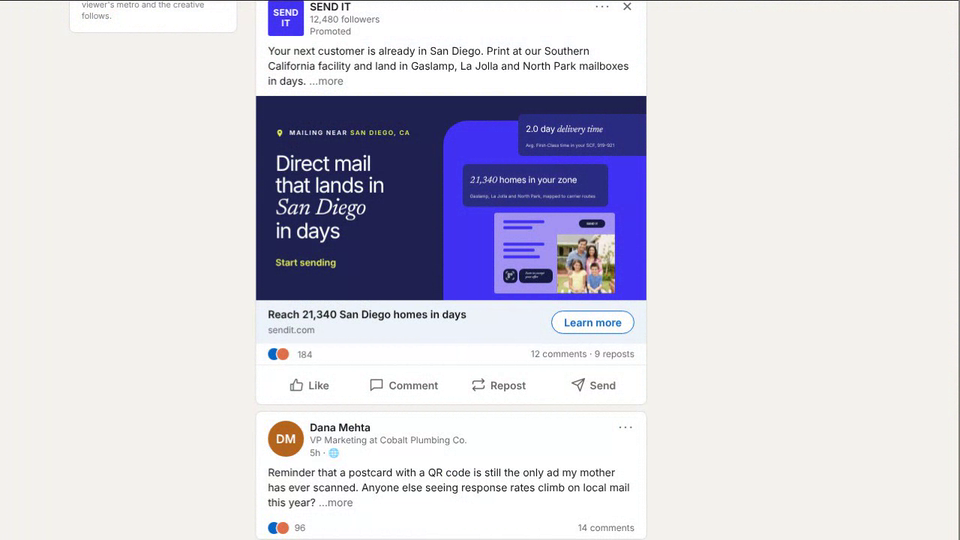
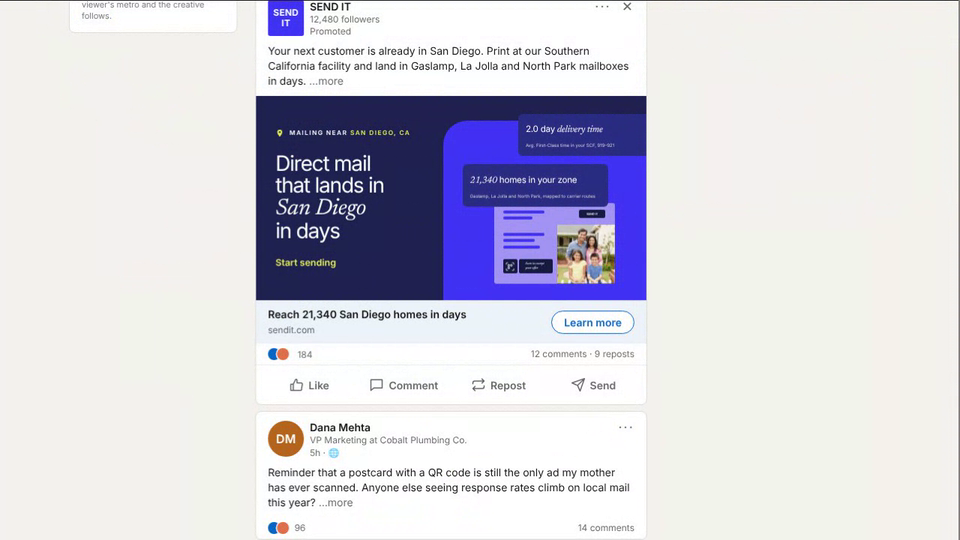
Paid Ad Pipeline: first blurb overlaps the postcard slightly, squarer QR, tag and scan label
Claude-Session: https://claude.ai/code/session_01AHeBe16MbJ3hGUT21NJCss

Changed region(s): [[0.5, 0.3556, 0.6562, 0.563]]

diff --git a/paid-ad-pipeline/index.html b/paid-ad-pipeline/index.html
@@ -79,12 +79,12 @@ nav.back span{color:#6e6e6e}nav.back b{font-weight:500;color:#fff;overflow:hidde
 .cr .bl strong{display:block;font:400 3.6cqw/1.1 var(--sans);letter-spacing:-.02em}.cr .bl strong i{font:italic 400 3.8cqw var(--serif)}
 .cr .bl p{font:400 1.85cqw/1.4 var(--sans);color:rgba(255,255,255,.75);margin-top:1.2cqw}
 .cr .box{position:absolute;left:0;right:0;top:7%;bottom:0;background:var(--purple);border-radius:32px;overflow:hidden}
-.cr .mail{position:absolute;z-index:2;left:21%;top:45%;width:50%;aspect-ratio:1.5;border-radius:3px;overflow:hidden;background:#a393f5}
+.cr .mail{position:absolute;z-index:2;left:21%;top:41%;width:50%;aspect-ratio:1.5;border-radius:3px;overflow:hidden;background:#a393f5}
 .cr .mail .el{position:absolute}
 .cr .mail .bar2{background:var(--purple);border-radius:99px}
-.cr .mail .tag{background:var(--deep);color:#fff;border-radius:6px;font:600 1.2cqw/1 var(--sans);display:flex;align-items:center;justify-content:center}
-.cr .mail .scan{background:var(--deep);color:#fff;border-radius:6px;font:italic 400 1.4cqw/1.15 var(--serif);display:flex;align-items:center;padding:0 5%}
-.cr .mail .qr{background:var(--deep);border-radius:6px}
+.cr .mail .tag{background:var(--deep);color:#fff;border-radius:2px;font:600 1.2cqw/1 var(--sans);display:flex;align-items:center;justify-content:center}
+.cr .mail .scan{background:var(--deep);color:#fff;border-radius:2px;font:italic 400 1.4cqw/1.15 var(--serif);display:flex;align-items:center;padding:0 5%}
+.cr .mail .qr{background:var(--deep);border-radius:2px}
 .cr .mail img{object-fit:cover}
 .ad .bar{display:flex;align-items:center;gap:12px;padding:10px 16px;background:#edf3f8}
 .ad .bar b{display:block;font:600 14px/1.3 var(--sans)}.ad .bar small{font-size:12px;color:rgba(0,0,0,.6)}
